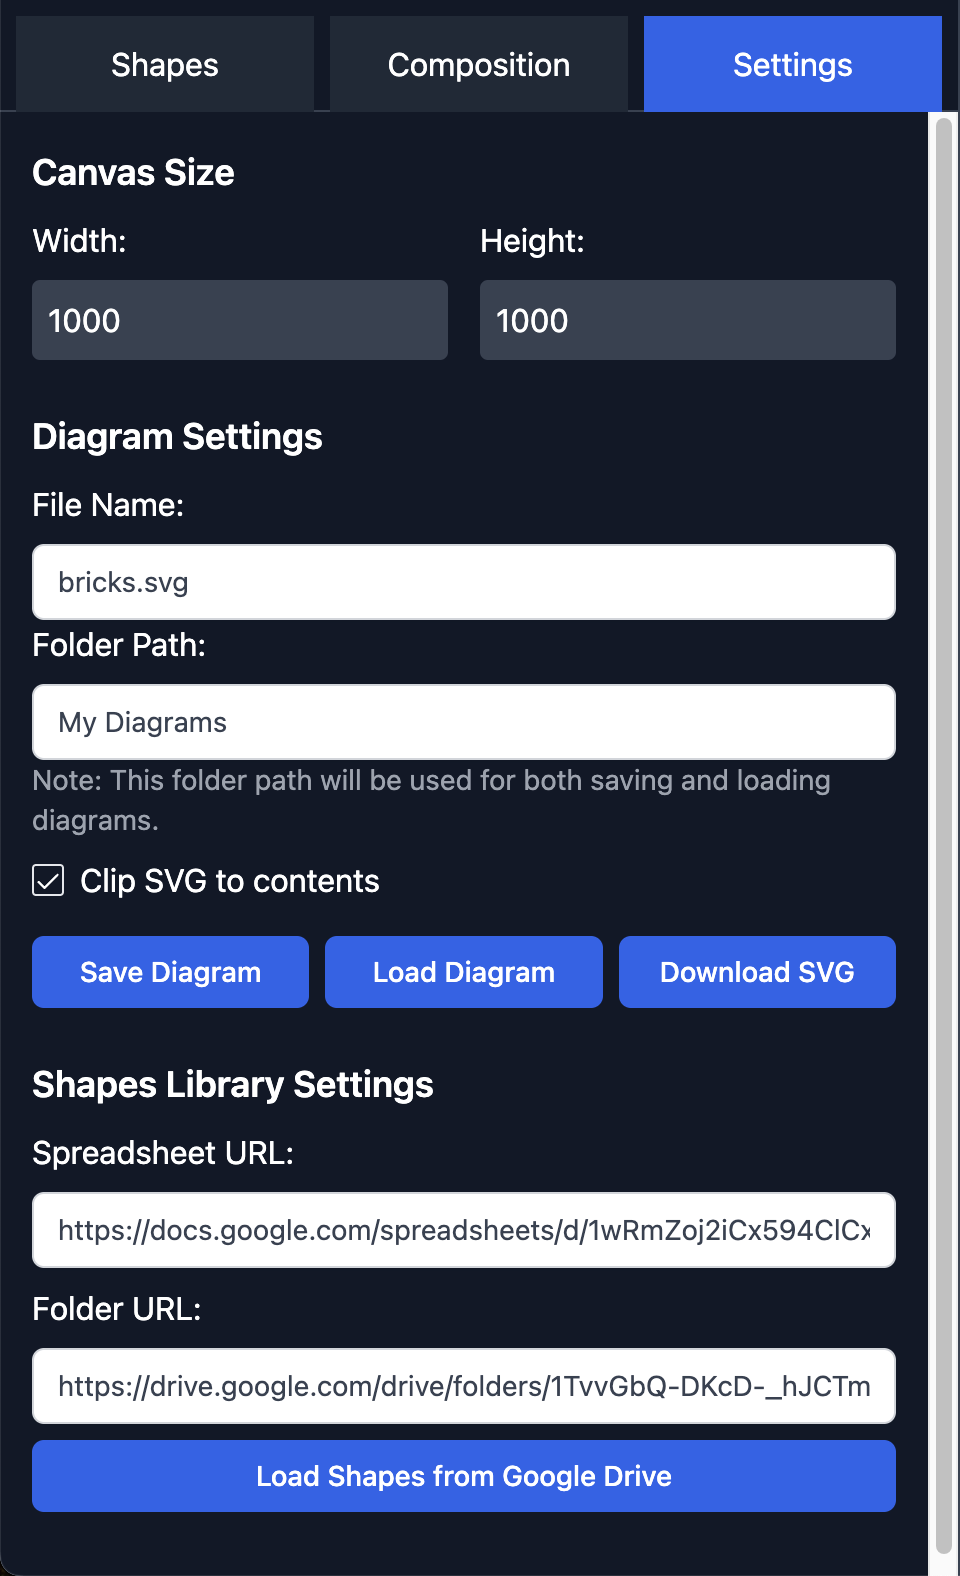
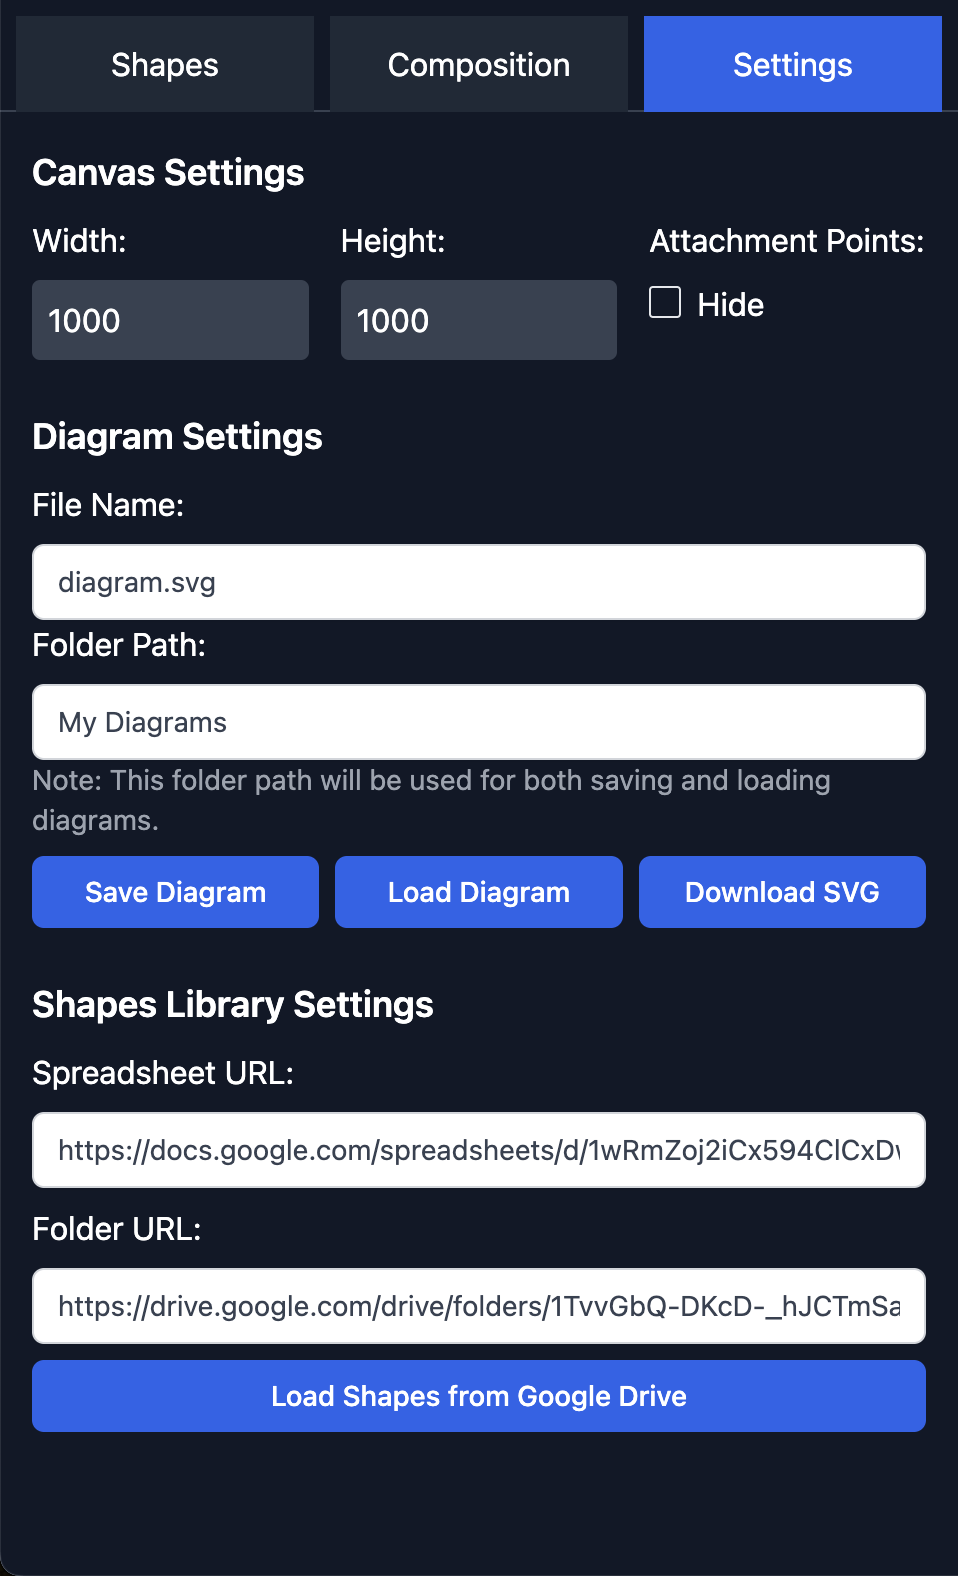
Updated settings in README

diff --git a/README.md b/README.md
@@ -2,20 +2,22 @@
 
 ## Description
 
-The SVG Isometric Shapes Compiler is a powerful web application that allows users to create complex isometric diagrams by combining 3D and 2D SVG shapes. This tool is perfect for designers, architects, and anyone who needs to create detailed isometric illustrations for presentations, documentation, or visual aids.
+The SVG Isometric Shapes Compiler is a web application that allows users to create complex isometric diagrams by combining 3D and 2D SVG shapes. This tool is perfect for designers, architects, and anyone who needs to create detailed isometric illustrations for presentations, documentation, or visual aids.
 
 [Try the demo online](https://bijoor.github.io/isometric-compiler-ui/)
 
 ## Features
 
-- Drag-and-drop interface for easy shape placement
+- Point and click interface for easy shape placement
 - Library of pre-defined 3D and 2D SVG shapes
 - Ability to combine shapes to create complex isometric diagrams
 - Google Drive integration for loading custom shape libraries
-- Save and load diagram compositions
+- Save and load diagram compositions to Google Drive
 - Export diagrams as SVG files
 - Customizable canvas size
-- Zoom and pan functionality for detailed editing
+- Zoom and pan functionality for detailed viewing
+- Composition based on attachment points that provides very high accuracy of placement
+- Relative positioning of all shapes ensures that changes to shapes in the library retains the diagram consistency
 
 ### Using the Application
 
@@ -29,10 +31,11 @@ The application interface is divided into three main sections:
 
 #### Steps to Create a Diagram:
 
-1. Load your shape library using the Settings tab.
+1. Load your shape library using the Settings tab, or use the default shapes included.
 2. Switch to the Shapes tab and add 3D shapes to your canvas.
-3. Select a 3D shape and add 2D shapes to its faces as desired.
-4. Use the Composition tab to adjust the positioning and layering of shapes.
+3. Add new 3D Shapes to connect its attachment point to that of an already placed 3D shape.
+4. Select a 3D shape and add 2D shapes to its attachment points as desired.
+5. Use the Composition tab to remove 3D or 2D shapes.
 5. Fine-tune your diagram using the zoom and pan controls on the canvas.
 6. Save your work or export the final SVG using the options in the Settings tab.
 
@@ -57,15 +60,21 @@ The Settings panel allows you to configure various aspects of your diagram and t
 - **Width**: Set the width of your canvas in pixels. Default is 1000.
 - **Height**: Set the height of your canvas in pixels. Default is 1000.
 
+### Attachemnt Points
+- **Hide**: When the checkbox is off, the attachment points are hidden in the SVG Canvas
+- **Show**: When the checkbox is on, the attachment points are displayed in the SVG Canvas. 
+Please note that attachment points will be visible only if they were designed to be visible in the Shapes library. If the attachment points are designed with no fill or stroke then their visibility will not be affected by this setting.
+
 ### Diagram Settings
 - **File Name**: Enter the name for your SVG file when saving or downloading. In the example, it's set to "bricks.svg".
 - **Folder Path**: Specify the folder path where diagrams will be saved and loaded from. In this case, it's set to "My Diagrams".
-- **Clip SVG to contents**: When checked, this option will trim the SVG to the content's boundaries, removing any excess blank space.
+Please note that a previous setting provided an option to download the SVG wih the set canvas size, and only on enabling the setting, the SVG was clipped to the contents with a fixed margin. Now this is set as the default.
 
 ### Diagram Actions
 - **Save Diagram**: Click to save your current diagram composition.
 - **Load Diagram**: Click to load a previously saved diagram.
 - **Download SVG**: Click to download your diagram as an SVG file.
+Please note that in this version only save and load to Google Drive is supported. Download will download the SVG to your local drive.
 
 ### Shapes Library Settings
 - **Spreadsheet URL**: Enter the URL of the Google Sheets document containing your shapes library index.
